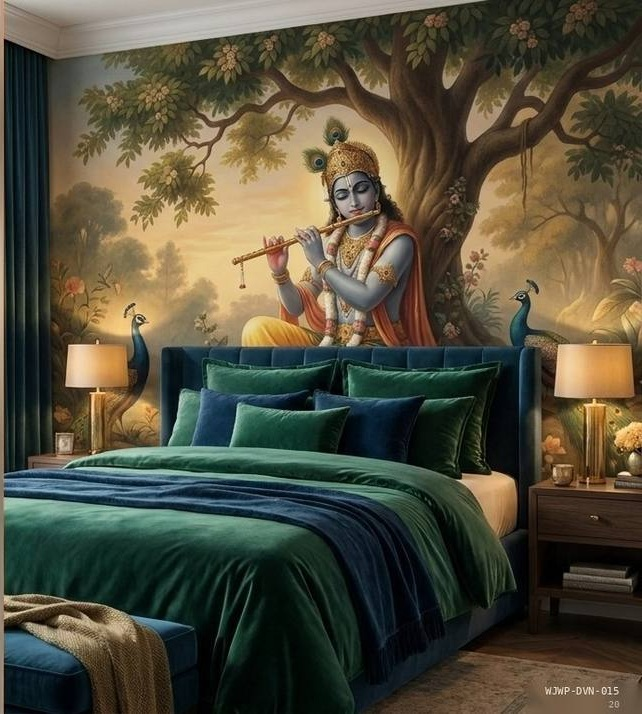
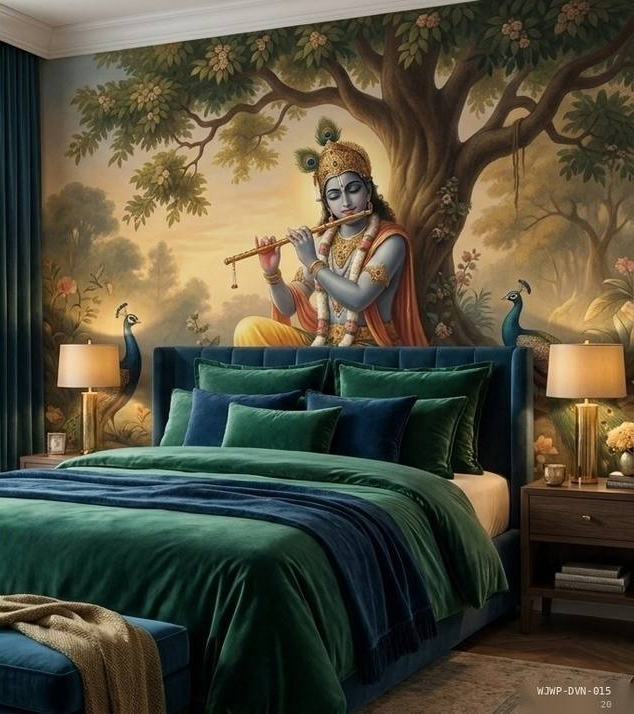
fix(crops): cleanly cropped Krishna Kadamba, Divine India Ganesha, and Kashi/Divine Family room panoramas

diff --git a/collection.html b/collection.html
@@ -237,9 +237,9 @@
               </div>
             </div>
           </article>
-          <article class="plate" id="kp-plate-09" data-slug="kp-plate-09">
+          <article class="plate" id="divine-kadamba-melody" data-slug="divine-kadamba-melody">
             <div class="plate__media">
-              <img src="assets/img/collection/kala-parampara/kp-plate-09.jpg" alt="The Radiant Flutist — Krishna beneath the kadamba tree — flute frequencies in emerald and gold." loading="lazy">
+              <img src="assets/img/collection/divine-kadamba-melody.jpg" alt="The Radiant Flutist — Krishna beneath the kadamba tree — flute frequencies in emerald and gold." loading="lazy">
               <span class="plate__tag">Curated</span>
             </div>
             <div class="plate__body">
@@ -249,10 +249,10 @@
               <div class="plate__row">
                 <a class="plate__view" href="https://wa.me/919677042903?text=Namaste%20Wall%20Jewels%20%E2%80%94%20I'd%20like%20to%20enquire%20about%20%22The%20Radiant%20Flutist%22%20(WJWP-DVN-005)." rel="noopener">Enquire</a>
                 <span style="display:flex; gap:2px">
-                  <button class="wish" type="button" data-slug="kp-plate-09" aria-label="Mark The Radiant Flutist on your wishlist" aria-pressed="false">
+                  <button class="wish" type="button" data-slug="divine-kadamba-melody" aria-label="Mark The Radiant Flutist on your wishlist" aria-pressed="false">
                     <svg viewBox="0 0 22 22" aria-hidden="true"><circle class="ring" cx="11" cy="11" r="7"/><circle class="core" cx="11" cy="11" r="3"/></svg>
                   </button>
-                  <button class="wish" type="button" data-add-basket="kp-plate-09" aria-label="Add The Radiant Flutist to your enquiry docket">
+                  <button class="wish" type="button" data-add-basket="divine-kadamba-melody" aria-label="Add The Radiant Flutist to your enquiry docket">
                     <svg viewBox="0 0 22 22" fill="none" aria-hidden="true"><path d="M11 4 V18 M4 11 H18" stroke="currentColor" stroke-width="1.5" stroke-linecap="round"/></svg>
                   </button>
                 </span>

diff --git a/assets/js/data.js b/assets/js/data.js
@@ -59,7 +59,7 @@ const COLLECTION = [
     img: 'assets/img/collection/kala-parampara/kp-plate-08.jpg', tag: 'Bestseller' },
   { n: 'The Radiant Flutist', no: 'WJWP-DVN-005', v: 'kala-parampara', c: 'heritage', s: 'bedroom',
     b: 'Krishna beneath the kadamba tree — flute frequencies in emerald and gold.',
-    img: 'assets/img/collection/kala-parampara/kp-plate-09.jpg', tag: 'Curated' },
+    img: 'assets/img/collection/divine-kadamba-melody.jpg', tag: 'Curated' },
   { n: 'The Devoted Breath', no: 'WJWP-DVN-006', v: 'kala-parampara', c: 'heritage', s: 'temple',
     b: 'Hanuman in saffron brushwork; unshakeable strength drawn in stillness.',
     img: 'assets/img/collection/kala-parampara/kp-plate-10.jpg', tag: 'Signature' },
